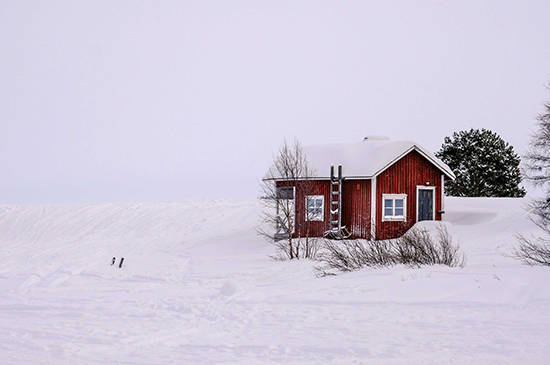
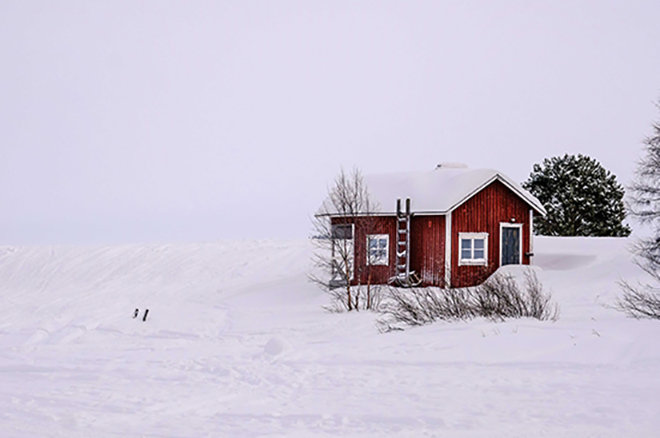
Image and font fixes

diff --git a/src/views/House.vue b/src/views/House.vue
@@ -4,30 +4,28 @@
   <div class="house page-content">
     <div class="container">
       <div class="row">
-        <div class="col-12">
-          <h1>{{ name }}</h1>
-        </div>
-      </div>
-      <div class="row">
-        <div class="col">
+        <div class="col-12 col-md-6 col-lg-5 offset-lg-1">
           <img :src="image(id)" />
-          <p class="desc">
+        </div>
+        <div class="col-12 col-md-6 col-lg-5 house--text">
+          <h1>{{ name }}</h1>
+          <p class="desc py-2">
             {{ desc }}
           </p>
         </div>
       </div>
-      <div class="row">
+      <div class="row mt-4">
         <div class="col">
           <div class="row mb-3">
             <div class="col-lg-6">
               <div class="row">
                 <label
                   for="nameInput"
-                  class="col-sm-2 visually-hidden col-form-label"
+                  class="col-lg-2 visually-hidden col-form-label"
                 >
                   Namn
                 </label>
-                <div class="col-sm-10">
+                <div class="col-lg-10 offset-lg-2 mb-3 mb-lg-0">
                   <div class="input-group">
                     <span class="input-group-text" id="namePrepend">Namn</span>
                     <input
@@ -47,11 +45,11 @@
               <div class="row">
                 <label
                   for="telInput"
-                  class="col-sm-2 visually-hidden col-form-label"
+                  class="col-lg-2 visually-hidden col-form-label"
                 >
                   Telefon
                 </label>
-                <div class="col-sm-10">
+                <div class="col-lg-10">
                   <div class="input-group">
                     <span class="input-group-text" id="telPrepend">#</span>
                     <input
@@ -77,11 +75,11 @@
               <div class="row">
                 <label
                   for="emailInput"
-                  class="col-sm-2 visually-hidden col-form-label"
+                  class="col-lg-2 visually-hidden col-form-label"
                 >
                   E-post
                 </label>
-                <div class="col-sm-10">
+                <div class="col-lg-10 offset-lg-2">
                   <div class="input-group">
                     <span class="input-group-text" id="emailPrepend">@</span>
                     <input
@@ -99,7 +97,7 @@
             </div>
             <div class="col-lg-6">
               <div class="row">
-                <div class="col-sm-10">
+                <div class="col-lg-10">
                   <button
                     :disabled="isHouseBooked"
                     @click="bookHouse()"
@@ -264,7 +262,11 @@ export default {
 
 <style lang="scss" scoped>
 .house {
+  display: flex;
+  align-items: center;
+  width: 100%;
   min-height: 95vh;
+  padding-bottom: 20vh;
   z-index: 1;
   background-color: $white;
   background-color: rgba($white, 0.75);
@@ -283,6 +285,16 @@ export default {
     z-index: -1;
   }
 
+  &--text {
+    display: flex;
+    flex-direction: column;
+    justify-content: center;
+
+    p {
+      margin: 0;
+    }
+  }
+
   .input-group-text {
     min-width: 8ch;
     justify-content: center;
@@ -291,14 +303,6 @@ export default {
   .btn {
     display: block;
     width: 100%;
-  }
-
-  > .container {
-    max-width: 50rem;
-  }
-
-  .desc {
-    padding: 1rem 0;
   }
 
   img {

diff --git a/src/views/About.vue b/src/views/About.vue
@@ -8,13 +8,14 @@
           <h2>Teknikval</h2>
           <p>
             Jag har valt VueJS för att göra detta. Mycket för att det är ett
-            mycket roligt ramverk att koda i, samt för att jag kände att det var
-            ett perfekt ramverk för denna uppgift.
+            roligt ramverk att koda i samt för att jag kände att det var ett
+            perfekt ramverk för denna uppgift.
           </p>
           <h2>Lagring</h2>
           <p>
             Värden lagras endast i applikationens lokala state, så om man laddar
-            om sidan kommer allting att återställas till ursprungsvärdena.
+            om sidan/webappen kommer allting att återställas till
+            ursprungsvärdena.
           </p>
           <h2>Skiss / Mockup</h2>
           <p>

diff --git a/src/router/index.js b/src/router/index.js
@@ -41,9 +41,13 @@ const router = createRouter({
       return savedPosition;
     }
     if (to.hash) {
-      return { el: to.hash, behavior: 'smooth' };
+      return { el: to.hash };
     } else {
-      window.scrollTo(0, 0);
+      window.scrollTo({
+        top: 0,
+        left: 0,
+        behavior: 'instant',
+      });
     }
   },
 });

diff --git a/src/views/User.vue b/src/views/User.vue
@@ -125,6 +125,8 @@ export default {
   }
 
   img {
+    width: 100%;
+    height: auto;
     max-width: 100%;
   }
 }
